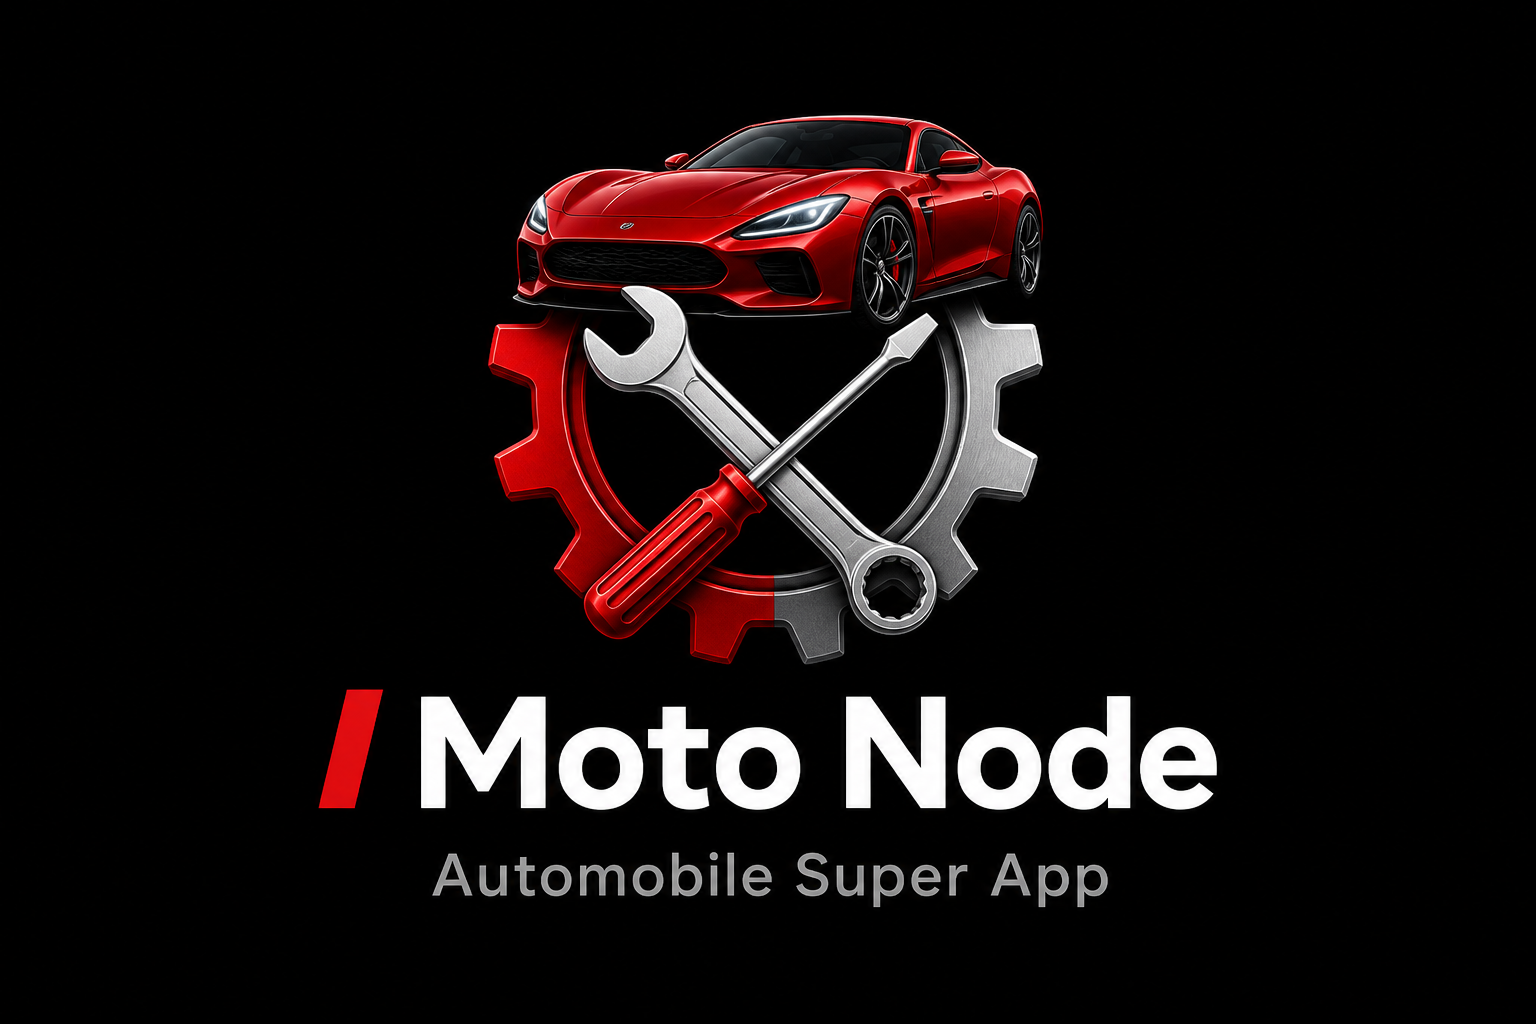
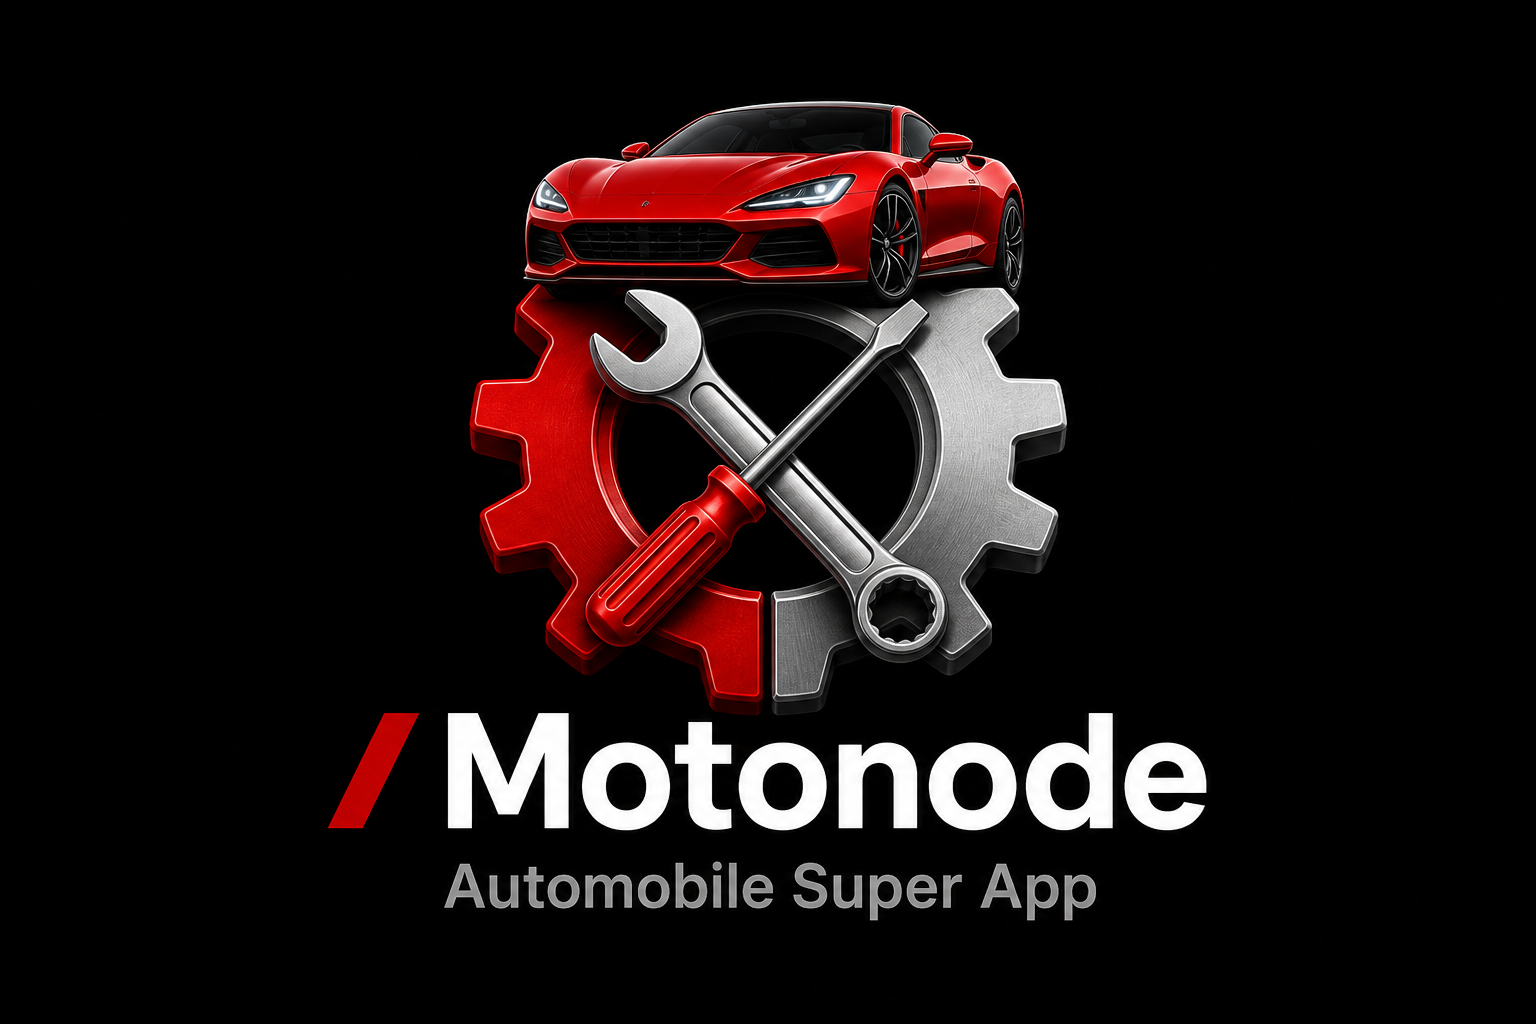
fix: update Open Graph and Twitter meta tags for consistency and improved branding
- Changed Open Graph and Twitter URLs to use the "www" subdomain for consistency.
- Updated image URLs to include a version query parameter for cache management.
- Modified alt text for the Open Graph and Twitter images for better clarity.
- Adjusted site configuration to reflect the new image path with versioning.

Changed region(s): [[0.1875, 0.0938, 0.8125, 0.9062]]

diff --git a/Motonode-Website/index.html b/Motonode-Website/index.html
@@ -25,7 +25,7 @@
     <meta name="apple-mobile-web-app-title" content="Moto Node" />
 
     <meta property="og:type" content="website" />
-    <meta property="og:url" content="https://motonode.in/" />
+    <meta property="og:url" content="https://www.motonode.in/" />
     <meta
       property="og:title"
       content="Moto Node: Automobile Services, Bike Service & Car Parts"
@@ -35,25 +35,25 @@
       content="Moto Node offers automobile services in India, bike service booking, and car parts discovery in one platform for riders, drivers, dealers, and community."
     />
     <meta name="google-site-verification" content="TWVh7d8z2PWaHtUdYXLjqdQbUcJRuHaZh5dbl0P0auk" />
-    <meta property="og:image" content="https://www.motonode.in/og-image.png" />
-    <meta property="og:image:secure_url" content="https://www.motonode.in/og-image.png" />
+    <meta property="og:image" content="https://www.motonode.in/og-image.png?v=20260821b" />
+    <meta property="og:image:secure_url" content="https://www.motonode.in/og-image.png?v=20260821b" />
     <meta property="og:image:type" content="image/png" />
     <meta property="og:image:width" content="1200" />
     <meta property="og:image:height" content="630" />
-    <meta property="og:image:alt" content="Moto Node logo and automobile super app" />
+    <meta property="og:image:alt" content="Motonode logo and automobile super app" />
     <meta property="og:site_name" content="Moto Node" />
     <meta property="og:locale" content="en_IN" />
-    <link rel="image_src" href="https://www.motonode.in/og-image.png" />
+    <link rel="image_src" href="https://www.motonode.in/og-image.png?v=20260821b" />
 
     <meta name="twitter:card" content="summary_large_image" />
-    <meta name="twitter:url" content="https://motonode.in/" />
+    <meta name="twitter:url" content="https://www.motonode.in/" />
     <meta name="twitter:title" content="Moto Node: Automobile Services, Bike Service & Car Parts" />
     <meta
       name="twitter:description"
       content="Moto Node offers automobile services in India, bike service booking, and car parts discovery in one platform for riders, drivers, dealers, and community."
     />
-    <meta name="twitter:image" content="https://www.motonode.in/og-image.png" />
-    <meta name="twitter:image:alt" content="Moto Node logo and automobile super app" />
+    <meta name="twitter:image" content="https://www.motonode.in/og-image.png?v=20260821b" />
+    <meta name="twitter:image:alt" content="Motonode logo and automobile super app" />
     <meta name="twitter:site" content="@motonode" />
 
     <link rel="icon" href="/favicon.ico" sizes="any" />

diff --git a/Motonode-Website/src/config/site.ts b/Motonode-Website/src/config/site.ts
@@ -55,7 +55,7 @@ export const siteConfig = {
       "automobile super app",
     ]
   ),
-  ogImage: import.meta.env.VITE_OG_IMAGE?.trim() || `${resolvedSiteUrl}/og-image.png`,
+  ogImage: import.meta.env.VITE_OG_IMAGE?.trim() || `${resolvedSiteUrl}/og-image.png?v=20260821b`,
   twitterHandle: import.meta.env.VITE_TWITTER_HANDLE?.trim() || "@motonode",
   themeColor: "#E60012",
   locale: "en_IN",
